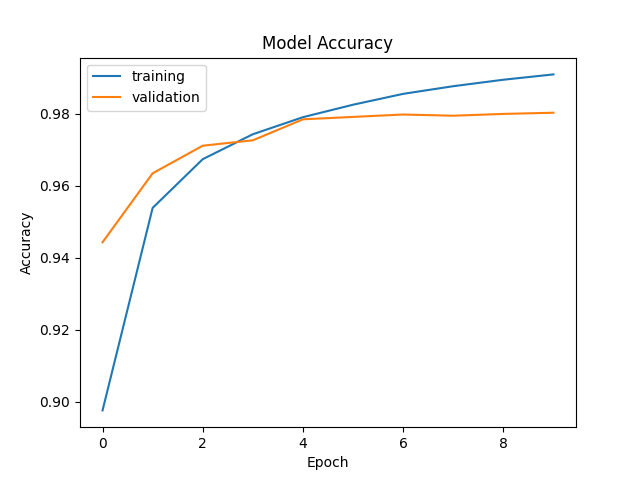
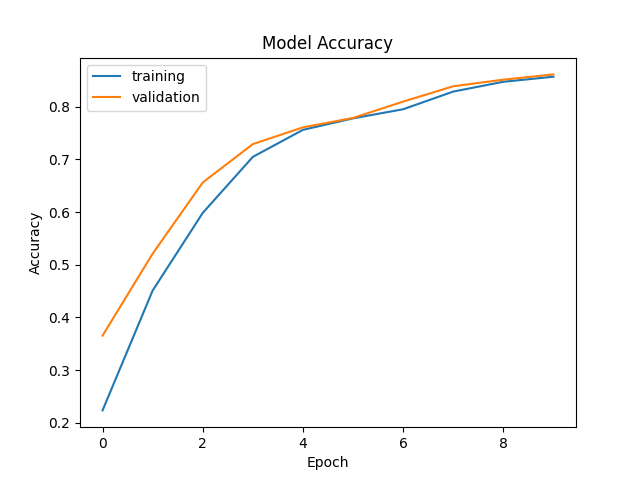
reran tests

diff --git a/Code/heatonDigit.py b/Code/heatonDigit.py
@@ -28,7 +28,7 @@ def fetch_data():
     return X, Y, Xtest, Ytest, Xval, Yval
 
 def heaton(i, o):
-    return int((2/3)*(i*o))
+    return int((2/3)*i + o)
 
 X, Y, Xtest, Ytest, Xval, Yval = fetch_data()
 

diff --git a/Code/heatonFashion.py b/Code/heatonFashion.py
@@ -28,7 +28,7 @@ def fetch_data():
     return X, Y, Xtest, Ytest, Xval, Yval
 
 def heaton(i, o):
-    return int((2/3)*(i*o))
+    return int((2/3)*i + o)
 
 X, Y, Xtest, Ytest, Xval, Yval = fetch_data()
 
